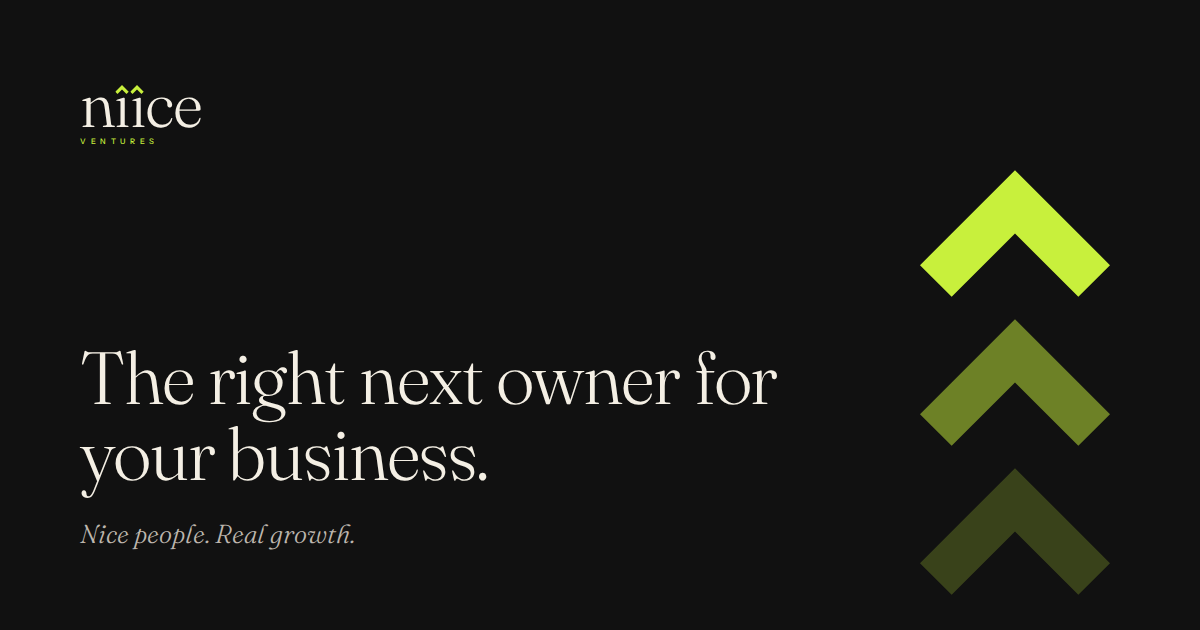
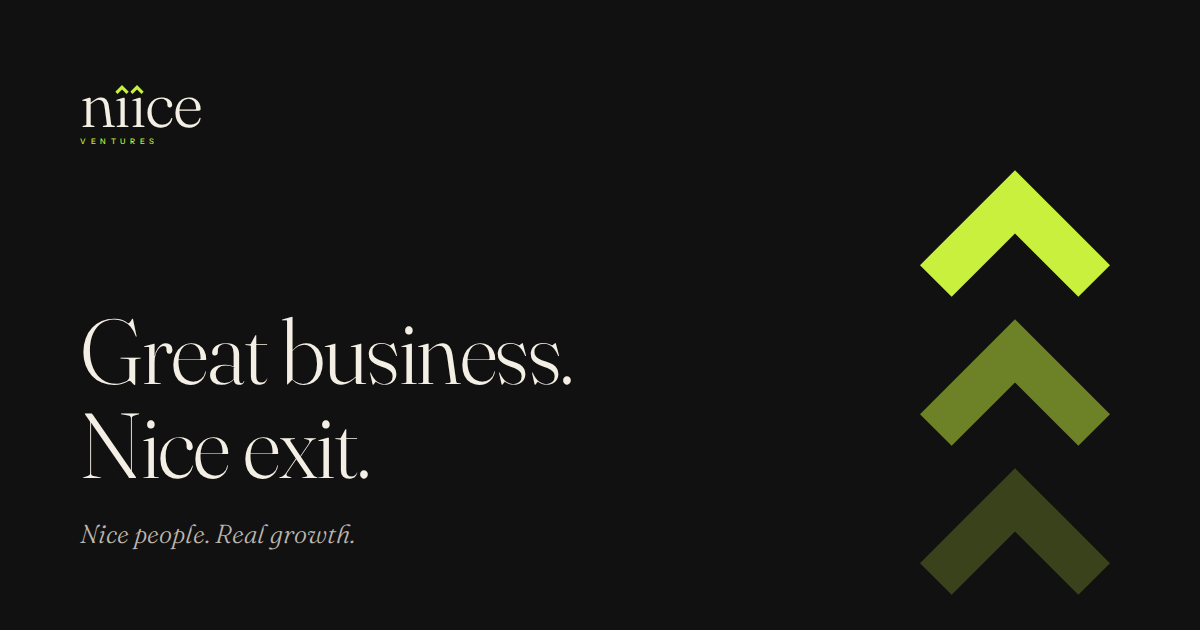
New headline: Great business. Nice exit.
Updates title, share tags and the home share image to match.

Claude-Session: https://claude.ai/code/session_01Dr5NpbU8ty49EHFkBejysg

Changed region(s): [[0.0617, 0.5127, 0.6475, 0.7841]]

diff --git a/index.html b/index.html
@@ -3,20 +3,20 @@
 <head>
 <meta charset="utf-8">
 <meta name="viewport" content="width=device-width, initial-scale=1">
-<title>Niice Ventures · The right next owner for your business</title>
+<title>Niice Ventures · Great business. Nice exit.</title>
 <meta name="description" content="Thinking about selling? Niice Ventures buys profitable, established businesses and helps them grow with strong cultures and thoughtful technology.">
 <link rel="canonical" href="https://www.niiceventures.com/">
 <meta property="og:type" content="website">
 <meta property="og:site_name" content="Niice Ventures">
-<meta property="og:title" content="The right next owner for your business">
+<meta property="og:title" content="Great business. Nice exit.">
 <meta property="og:description" content="Thinking about selling? Niice Ventures buys profitable, established businesses and helps them grow with strong cultures and thoughtful technology.">
 <meta property="og:url" content="https://www.niiceventures.com/">
 <meta property="og:image" content="https://www.niiceventures.com/og/home.png">
 <meta property="og:image:width" content="1200">
 <meta property="og:image:height" content="630">
-<meta property="og:image:alt" content="The right next owner for your business">
+<meta property="og:image:alt" content="Great business. Nice exit.">
 <meta name="twitter:card" content="summary_large_image">
-<meta name="twitter:title" content="The right next owner for your business">
+<meta name="twitter:title" content="Great business. Nice exit.">
 <meta name="twitter:description" content="Thinking about selling? Niice Ventures buys profitable, established businesses and helps them grow with strong cultures and thoughtful technology.">
 <meta name="twitter:image" content="https://www.niiceventures.com/og/home.png">
 <meta name="theme-color" content="#111111">
@@ -183,7 +183,7 @@ footer{border-top:1px solid var(--line);padding:40px 0 56px}
     <div class="wrap hero-grid">
       <div>
         <div class="eyebrow">Niice Ventures · Business acquisition</div>
-        <h1>The right next owner for your business.</h1>
+        <h1>Great business.<br>Nice exit.</h1>
         <p class="lead">Thinking about selling? We&rsquo;re operators who build strong cultures and thoughtful technology to help great businesses grow.</p>
         <div class="cta-row">
           <a class="btn btn-primary" href="/contact/">Start a confidential conversation</a>
